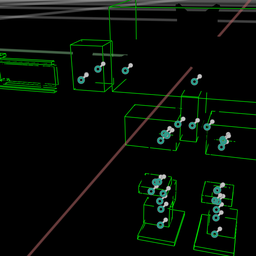
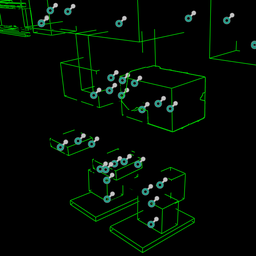
Limit ankle pitch

diff --git a/source/isaaclab_tasks/isaaclab_tasks/manager_based/locomotion/velocity/config/g1/kuroko_rough_env_cfg.py b/source/isaaclab_tasks/isaaclab_tasks/manager_based/locomotion/velocity/config/g1/kuroko_rough_env_cfg.py
@@ -49,18 +49,18 @@ class KurokoRewards(RewardsCfg):
 
     termination_penalty = RewTerm(
         func=mdp.is_terminated,
-        weight=-200.0,
+        weight=-100.0,
     )
 
     track_lin_vel_xy_exp = RewTerm(
         func=mdp.track_lin_vel_xy_yaw_frame_exp,
-        weight=1.0,
+        weight=3.3,
         params={"command_name": "base_velocity", "std": 0.5},
     )
 
     track_ang_vel_z_exp = RewTerm(
         func=mdp.track_ang_vel_z_world_exp,
-        weight=1.0,
+        weight=3.3,
         params={"command_name": "base_velocity", "std": 0.5}
     )
 
@@ -97,14 +97,14 @@ class KurokoRewards(RewardsCfg):
 
     feet_air_time = RewTerm(
         func=mdp.feet_air_time_positive_biped,
-        weight=0.75,
+        weight=2.5,
         params={
             "command_name": "base_velocity",
             "sensor_cfg": SceneEntityCfg("contact_forces", body_names=[
                 "ankle_l_yaw_link",
                 "ankle_r_yaw_link",
             ]),
-            "threshold": 0.02,
+            "threshold": 0.1,
         },
     )
 
@@ -267,8 +267,8 @@ class KurokoRewards(RewardsCfg):
     #             ],
     #         ),
     #         "target_height": 0.32,
-    #         "margin": 0.01,
-    #         "gain": 10000.0,
+    #         "margin": 0.0,
+    #         "gain": 10.0,
     #     },
     # )
 
